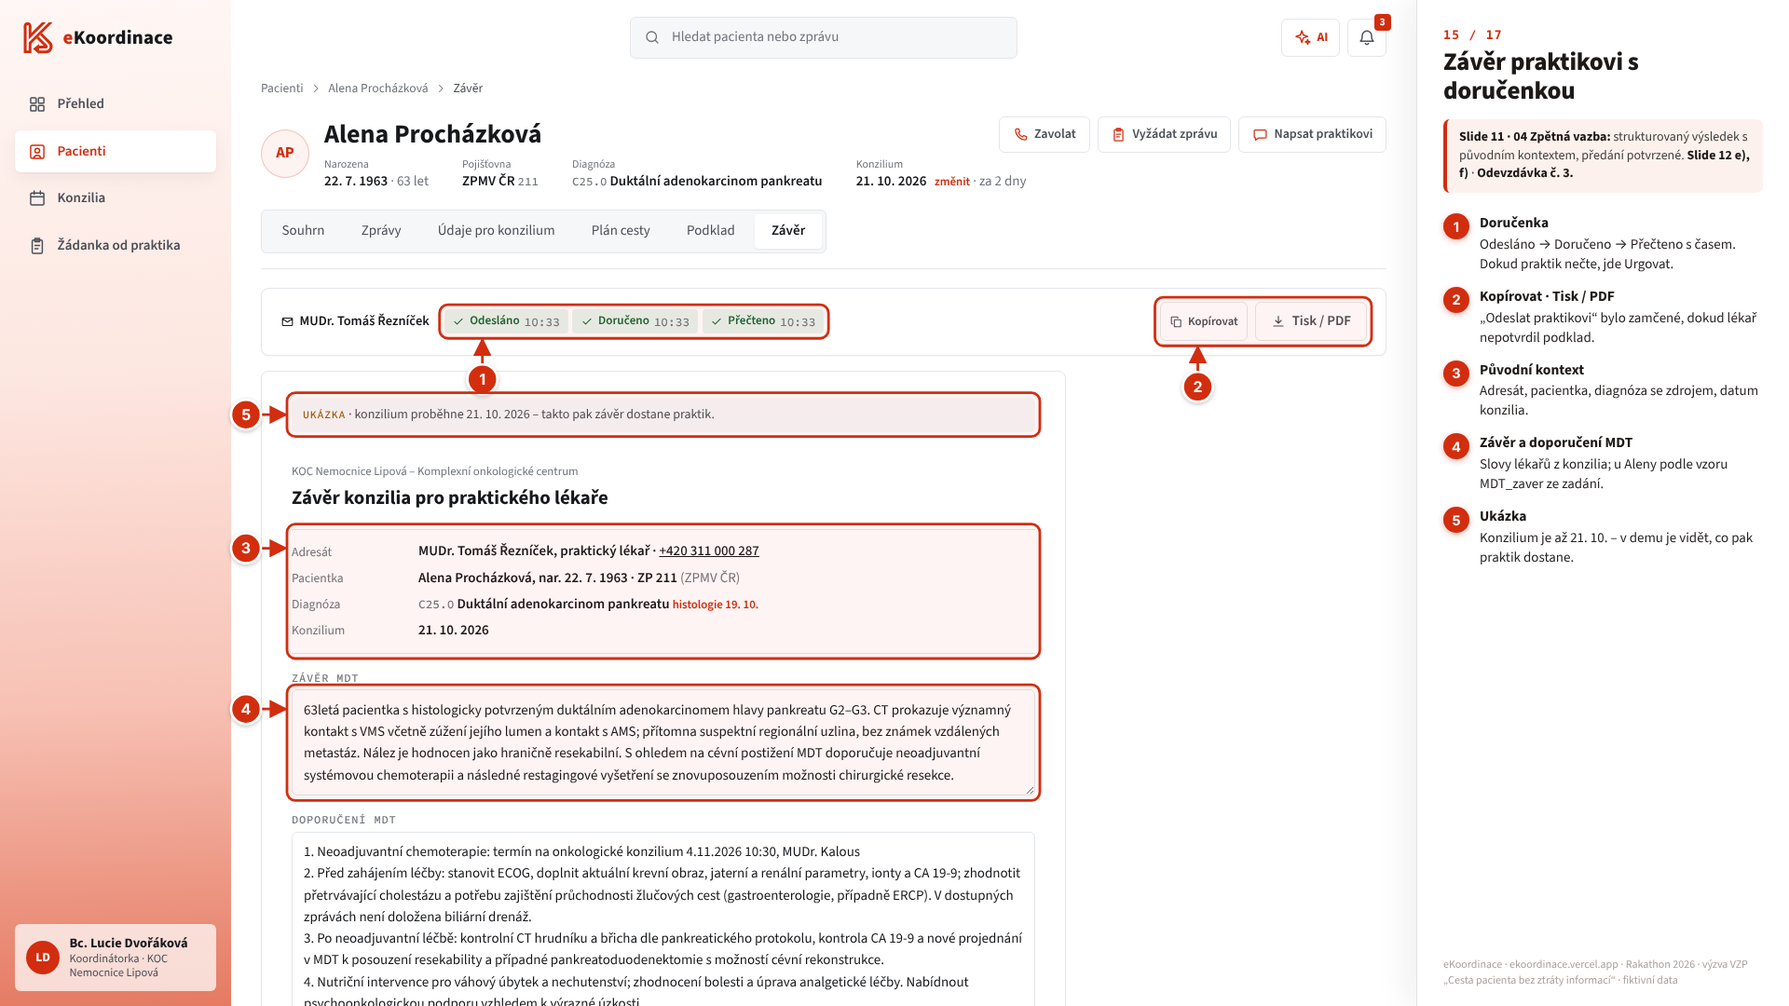
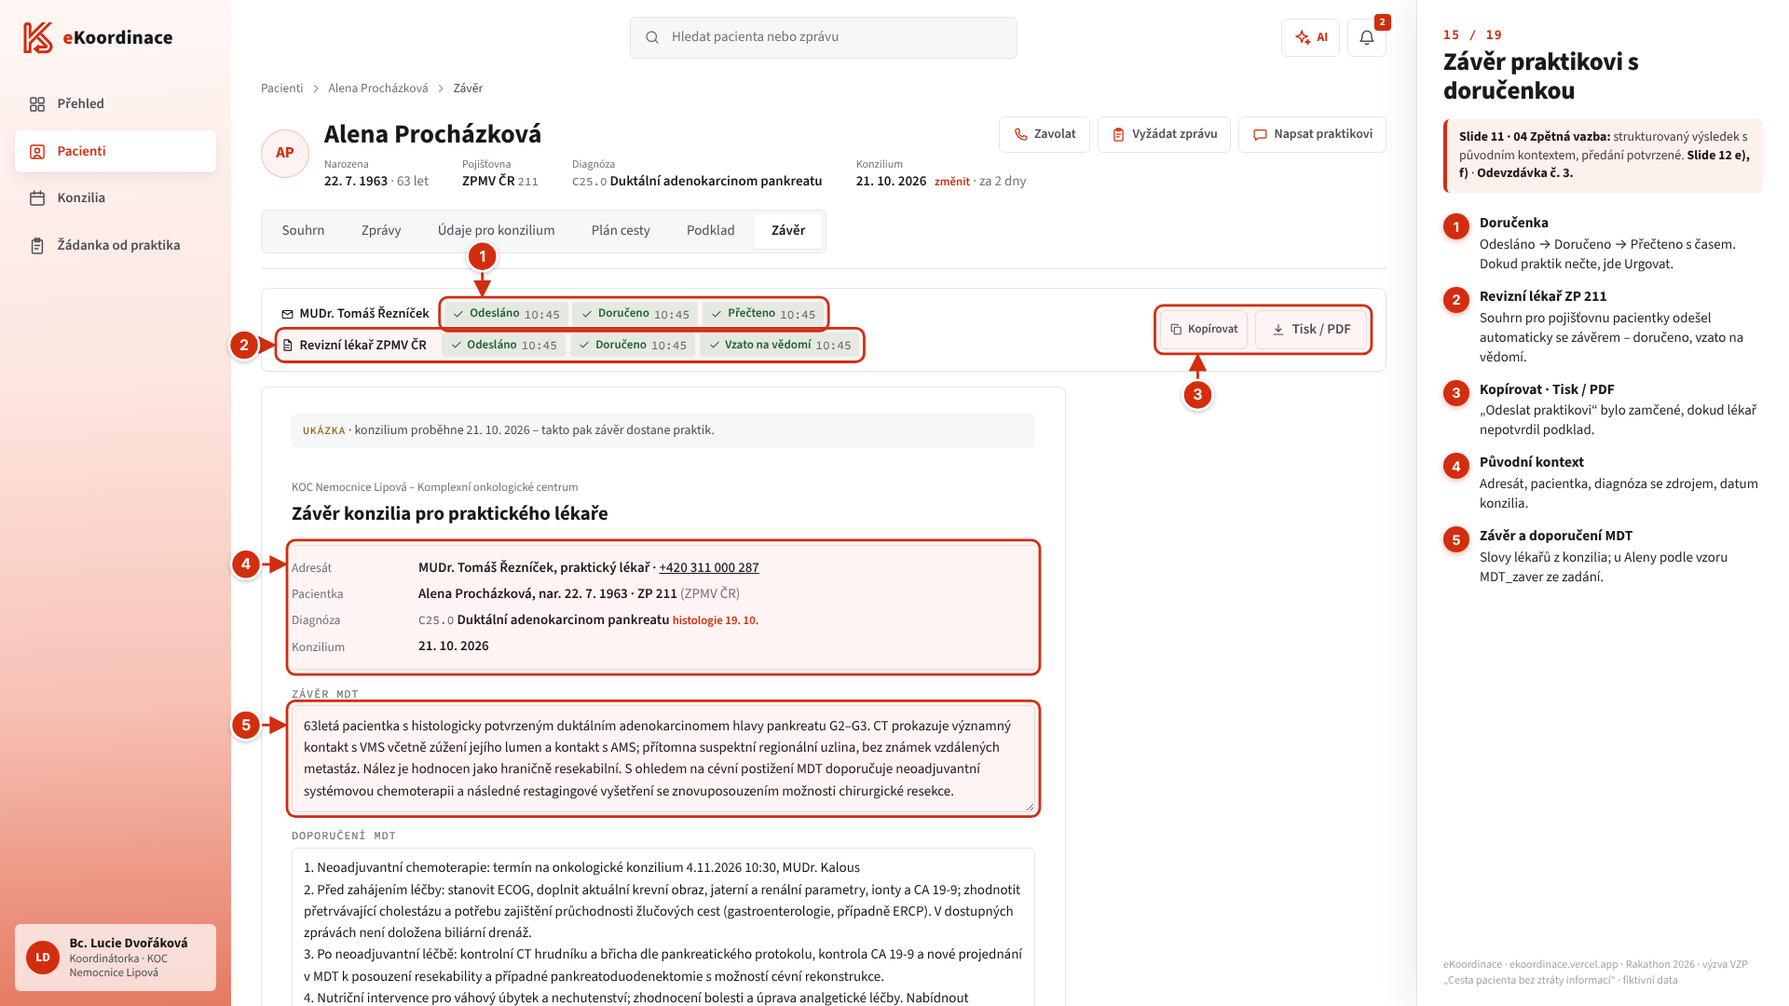
[matej] Prezentácia: revízny lekár – doručenka na snímke 15, nové snímky 18 (žiadosť o doplnenie) a 19 (súhrn)
Claude-Session: https://claude.ai/code/session_015VJSfYHmvM3mL2F35khGXF

Changed region(s): [[0.125, 0.2444, 0.5938, 1.0], [0.7812, 0.275, 0.9688, 0.5806], [0.625, 0.275, 0.7812, 0.4278]]

diff --git a/docs/odovzdanie/prezentace/index.html b/docs/odovzdanie/prezentace/index.html
@@ -63,7 +63,7 @@
 <header>
   <p class="num">Rakathon 2026 · výzva VZP „Cesta pacienta bez ztráty informací“</p>
   <h1>eKoordinace – obrazovky k prezentaci</h1>
-  <p class="lead">17 anotovaných snímků živé aplikace <a href="https://ekoordinace.vercel.app">ekoordinace.vercel.app</a> v pořadí, v jakém jde demo. Červená čísla na snímku odpovídají vysvětlivkám v pravém panelu; v panelu je i to, který slide zadání obrazovka splňuje. Pod každým snímkem je, co říct. Na konci je tabulka <a href="#pozadavky">požadavek ze zadání → kde to v aplikaci je</a> a <a href="#nemame">co nemáme</a>.</p>
+  <p class="lead">19 anotovaných snímků živé aplikace <a href="https://ekoordinace.vercel.app">ekoordinace.vercel.app</a> v pořadí, v jakém jde demo. Červená čísla na snímku odpovídají vysvětlivkám v pravém panelu; v panelu je i to, který slide zadání obrazovka splňuje. Pod každým snímkem je, co říct. Na konci je tabulka <a href="#pozadavky">požadavek ze zadání → kde to v aplikaci je</a> a <a href="#nemame">co nemáme</a>.</p>
 </header>
 
 <div class="box">
@@ -96,13 +96,15 @@
     <li><a href="#s15"><b>15</b>Závěr praktikovi s doručenkou</a></li>
     <li><a href="#s16"><b>16</b>Konzilia</a></li>
     <li><a href="#s17"><b>17</b>Zeptat se AI (Claude)</a></li>
+    <li><a href="#s18"><b>18</b>Revizní lékař si vyžádá doplnění</a></li>
+    <li><a href="#s19"><b>19</b>Souhrn pro revizního lékaře</a></li>
     <li><a href="#pozadavky"><b>✓</b>Požadavky → kde v aplikaci</a></li>
   </ol>
 </nav>
 
 <!-- 1 -->
 <section class="shot" id="s01">
-  <div class="shot-head"><span class="num">1 / 17</span><h2>Přehled – ráno koordinátorky</h2></div>
+  <div class="shot-head"><span class="num">1 / 19</span><h2>Přehled – ráno koordinátorky</h2></div>
   <div class="tags"><span class="tag">Slide 9 · 03 Koordinovat</span><span class="tag">Slide 12 c) d)</span><span class="tag gray">Slide 5 · uvnitř KOC</span></div>
   <figure><a href="01-prehled.png"><img src="01-prehled.png" alt="Přehled: Na tahu jste vy 3, Čeká na ostatní 1, nejbližší konzilium 21. 10. 2026; seznam úkolů s termíny." loading="lazy" width="1920" height="1080"></a></figure>
   <h3>Co říct</h3>
@@ -117,7 +119,7 @@
 
 <!-- 2 -->
 <section class="shot" id="s02">
-  <div class="shot-head"><span class="num">2 / 17</span><h2>Žádanka od praktika – bez formuláře</h2></div>
+  <div class="shot-head"><span class="num">2 / 19</span><h2>Žádanka od praktika – bez formuláře</h2></div>
   <div class="tags"><span class="tag">Slide 7 · 01 Převzít</span><span class="tag">Slide 12 a)</span><span class="tag gray">Slide 5 · na vstupu</span></div>
   <figure><a href="02-zadanka.png"><img src="02-zadanka.png" alt="Žádanka do KOC: tři kroky, výběr KOC, údaje vyplněné z dopisu, zprávy z ambulance a tlačítko Odeslat do KOC 2." loading="lazy" width="1920" height="1080"></a></figure>
   <h3>Co říct</h3>
@@ -132,7 +134,7 @@
 
 <!-- 3 -->
 <section class="shot" id="s03">
-  <div class="shot-head"><span class="num">3 / 17</span><h2>Nový pacient – zprávy v jakékoli podobě</h2></div>
+  <div class="shot-head"><span class="num">3 / 19</span><h2>Nový pacient – zprávy v jakékoli podobě</h2></div>
   <div class="tags"><span class="tag">Zadání · Vyžádat a shromáždit</span><span class="tag">Slide 7</span><span class="tag gray">Slide 5 · na vstupu</span></div>
   <figure><a href="03-novy-pacient-zpravy.png"><img src="03-novy-pacient-zpravy.png" alt="Zprávy pacienta (10): pole pro přetažení, seznam zpráv s datem, fotka přečtená OCR se značkou, PDF a RTF." loading="lazy" width="1920" height="1080"></a></figure>
   <h3>Co říct</h3>
@@ -147,7 +149,7 @@
 
 <!-- 4 -->
 <section class="shot" id="s04">
-  <div class="shot-head"><span class="num">4 / 17</span><h2>Pacienti a hledání</h2></div>
+  <div class="shot-head"><span class="num">4 / 19</span><h2>Pacienti a hledání</h2></div>
   <div class="tags"><span class="tag">Slide 9 · 03 Koordinovat</span><span class="tag">Slide 12 c)</span><span class="tag gray">Zadání · vše na jednom místě</span></div>
   <figure><a href="04-pacienti-hledani.png"><img src="04-pacienti-hledani.png" alt="Seznam pacientů se stavem a termínem; hledání „histologie“ najde zprávy tří pacientů." loading="lazy" width="1920" height="1080"></a></figure>
   <h3>Co říct</h3>
@@ -162,7 +164,7 @@
 
 <!-- 5 -->
 <section class="shot" id="s05">
-  <div class="shot-head"><span class="num">5 / 17</span><h2>Pacientka – Souhrn</h2></div>
+  <div class="shot-head"><span class="num">5 / 19</span><h2>Pacientka – Souhrn</h2></div>
   <div class="tags"><span class="tag">Slide 9–10 · 03 Koordinovat</span><span class="tag">Slide 12 d)</span></div>
   <figure><a href="05-souhrn.png"><img src="05-souhrn.png" alt="Karta Aleny Procházkové: hlavička, cesta pacientky v pěti krocích, úkol pro vás do 20. 10. a úkoly s kontakty." loading="lazy" width="1920" height="1080"></a></figure>
   <h3>Co říct</h3>
@@ -177,7 +179,7 @@
 
 <!-- 6 -->
 <section class="shot" id="s06">
-  <div class="shot-head"><span class="num">6 / 17</span><h2>Údaje pro konzilium (handover)</h2></div>
+  <div class="shot-head"><span class="num">6 / 19</span><h2>Údaje pro konzilium (handover)</h2></div>
   <div class="tags"><span class="tag">Slide 8 · 02 Vytěžit</span><span class="tag">Slide 12 b)</span><span class="tag gray">Zadání · Vytěžit</span></div>
   <figure><a href="06-udaje.png"><img src="06-udaje.png" alt="Údaje pro konzilium: filtr Vše 20, Hotovo 16, Chybí 2, Rozpor 2; rozpor u léků s doslovnými větami a tlačítky Zapsat ověření, Napsat dotaz, Ponechat." loading="lazy" width="1920" height="1080"></a></figure>
   <h3>Co říct</h3>
@@ -193,7 +195,7 @@
 
 <!-- 7 -->
 <section class="shot" id="s07">
-  <div class="shot-head"><span class="num">7 / 17</span><h2>Každý údaj má zdroj</h2></div>
+  <div class="shot-head"><span class="num">7 / 19</span><h2>Každý údaj má zdroj</h2></div>
   <div class="tags"><span class="tag">Zadání · bez domýšlení</span><span class="tag">Slide 8</span></div>
   <figure><a href="07-citace.png"><img src="07-citace.png" alt="Otevřený bioptický nález se zvýrazněnou větou závěru a zvýrazněným datem vydání 19. 10. 2026." loading="lazy" width="1920" height="1080"></a></figure>
   <h3>Co říct</h3>
@@ -208,7 +210,7 @@
 
 <!-- 8 -->
 <section class="shot" id="s08">
-  <div class="shot-head"><span class="num">8 / 17</span><h2>Vyžádat doplnění od lékaře</h2></div>
+  <div class="shot-head"><span class="num">8 / 19</span><h2>Vyžádat doplnění od lékaře</h2></div>
   <div class="tags"><span class="tag">Slide 8 · 02 Vytěžit</span><span class="tag gray">Zadání · Vyžádat a shromáždit</span></div>
   <figure><a href="08-vyzadat.png"><img src="08-vyzadat.png" alt="Dialog Vyžádat doplnění: týká se ECOG, komu praktik, jak zabezpečená zpráva, předvyplněný text a tlačítko Odeslat." loading="lazy" width="1920" height="1080"></a></figure>
   <h3>Co říct</h3>
@@ -223,7 +225,7 @@
 
 <!-- 9 -->
 <section class="shot" id="s09">
-  <div class="shot-head"><span class="num">9 / 17</span><h2>Zprávy – vše na jednom místě</h2></div>
+  <div class="shot-head"><span class="num">9 / 19</span><h2>Zprávy – vše na jednom místě</h2></div>
   <div class="tags"><span class="tag">Zadání · Vyžádat a shromáždit</span><span class="tag">Upozornění zadavatele · po MDT</span><span class="tag gray">Slide 9 · kontext z referování</span></div>
   <figure><a href="09-zpravy.png"><img src="09-zpravy.png" alt="Záložka Zprávy: 11 zpráv do konzilia, filtr podle typu, souhrn bioptického nálezu a zvlášť dvě zprávy po konziliu." loading="lazy" width="1920" height="1080"></a></figure>
   <h3>Co říct</h3>
@@ -237,7 +239,7 @@
 
 <!-- 10 -->
 <section class="shot" id="s10">
-  <div class="shot-head"><span class="num">10 / 17</span><h2>Plán cesty – pořadí a stav</h2></div>
+  <div class="shot-head"><span class="num">10 / 19</span><h2>Plán cesty – pořadí a stav</h2></div>
   <div class="tags"><span class="tag">Slide 10 · 03 Koordinovat</span><span class="tag">Slide 9</span><span class="tag">Slide 12 d)</span><span class="tag gray">Zadání · Koordinovat</span></div>
   <figure><a href="10-plan.png"><img src="10-plan.png" alt="Plán cesty: kde případ je, na tahu Vy do 20. 10., hlídání termínů 1 zpoždění, sada kroků pro karcinom slinivky, pořadí kroků a krok CT." loading="lazy" width="1920" height="1080"></a></figure>
   <h3>Co říct</h3>
@@ -252,7 +254,7 @@
 
 <!-- 11 -->
 <section class="shot" id="s11">
-  <div class="shot-head"><span class="num">11 / 17</span><h2>Plán cesty – návaznost, SMS a e-mail</h2></div>
+  <div class="shot-head"><span class="num">11 / 19</span><h2>Plán cesty – návaznost, SMS a e-mail</h2></div>
   <div class="tags"><span class="tag">Slide 10 · 03 Koordinovat</span><span class="tag">Slide 12 d)</span><span class="tag gray">Zadání · algeziolog, psycholog</span></div>
   <figure><a href="11-plan-navaznost.png"><img src="11-plan-navaznost.png" alt="Druhá část plánu: podklad, konzilium, závěr praktikovi, algeziologie v KOC Nemocnice Severní se stavem a tlačítky SMS pacientce a E-mail pracovišti, záznam koordinace." loading="lazy" width="1920" height="1080"></a></figure>
   <h3>Co říct</h3>
@@ -267,7 +269,7 @@
 
 <!-- 12 -->
 <section class="shot" id="s12">
-  <div class="shot-head"><span class="num">12 / 17</span><h2>Podklad pro konzilium – zamčeno</h2></div>
+  <div class="shot-head"><span class="num">12 / 19</span><h2>Podklad pro konzilium – zamčeno</h2></div>
   <div class="tags"><span class="tag">Slide 8 · lékař potvrdí</span><span class="tag">Odevzdávka č. 2</span></div>
   <figure><a href="12-podklad-zamceno.png"><img src="12-podklad-zamceno.png" alt="Podklad: Nejdřív vyřešte 4 body s tlačítky Vyřešit a Ponechat, zamčené tlačítko Potvrdit a vygenerovat PDF a zápis k jednání MDT jako návrh." loading="lazy" width="1920" height="1080"></a></figure>
   <h3>Co říct</h3>
@@ -282,7 +284,7 @@
 
 <!-- 13 -->
 <section class="shot" id="s13">
-  <div class="shot-head"><span class="num">13 / 17</span><h2>Podklad potvrzen → PDF</h2></div>
+  <div class="shot-head"><span class="num">13 / 19</span><h2>Podklad potvrzen → PDF</h2></div>
   <div class="tags"><span class="tag">Slide 8 · Hotovo, když</span><span class="tag">Slide 12 e)</span><span class="tag">Odevzdávka č. 2</span></div>
   <figure><a href="13-podklad-pdf.png"><img src="13-podklad-pdf.png" alt="Potvrzený podklad: soubor PDF, tlačítka Stáhnout PDF a Kopírovat do NIS, zdroj u údajů a příznak doplněno u ECOG." loading="lazy" width="1920" height="1080"></a></figure>
   <h3>Co říct</h3>
@@ -297,7 +299,7 @@
 
 <!-- 14 -->
 <section class="shot" id="s14">
-  <div class="shot-head"><span class="num">14 / 17</span><h2>Na konziliu: části 6 a 7</h2></div>
+  <div class="shot-head"><span class="num">14 / 19</span><h2>Na konziliu: části 6 a 7</h2></div>
   <div class="tags"><span class="tag">Odevzdávka č. 2</span><span class="tag">Slide 12 e)</span><span class="tag gray">Zadání · jen data k 21. 10.</span></div>
   <figure><a href="14-podklad-mdt.png"><img src="14-podklad-mdt.png" alt="Konec podkladu: výsledky vyšetření končí histologií 19. 10., pod nimi pole Závěr MDT a Doporučení MDT." loading="lazy" width="1920" height="1080"></a></figure>
   <h3>Co říct</h3>
@@ -311,13 +313,14 @@
 
 <!-- 15 -->
 <section class="shot" id="s15">
-  <div class="shot-head"><span class="num">15 / 17</span><h2>Závěr praktikovi s doručenkou</h2></div>
+  <div class="shot-head"><span class="num">15 / 19</span><h2>Závěr praktikovi s doručenkou</h2></div>
   <div class="tags"><span class="tag">Slide 11 · 04 Zpětná vazba</span><span class="tag">Slide 12 e) f)</span><span class="tag">Odevzdávka č. 3</span><span class="tag gray">Slide 5 · na výstupu</span></div>
-  <figure><a href="15-zaver.png"><img src="15-zaver.png" alt="Závěr konzilia pro praktického lékaře s doručenkou Odesláno, Doručeno, Přečteno a s adresátem, pacientkou, diagnózou a závěrem MDT." loading="lazy" width="1920" height="1080"></a></figure>
+  <figure><a href="15-zaver.png"><img src="15-zaver.png" alt="Závěr konzilia pro praktického lékaře s doručenkou Odesláno, Doručeno, Přečteno, pod ní doručenka revizního lékaře ZPMV ČR až po Vzato na vědomí, a s adresátem, pacientkou, diagnózou a závěrem MDT." loading="lazy" width="1920" height="1080"></a></figure>
   <h3>Co říct</h3>
   <ul class="say">
     <li>Závěr konzilia pro praktika: adresát, pacientka, diagnóza se zdrojem a datum konzilia, pak závěr, doporučení a další postup slovy lékařů (u Aleny podle vzoru MDT_zaver ze zadání).</li>
     <li>„Odeslat praktikovi“ jde až po potvrzení podkladu. Pak doručenka: Odesláno → Doručeno → Přečteno s časem; dokud praktik nečte, jde „Urgovat“.</li>
+    <li>Druhý řádek: se závěrem odešel automaticky i souhrn reviznímu lékaři pojišťovny pacientky – Alena má ZPMV ČR (211), ne VZP. Odesláno → Doručeno → Vzato na vědomí, bez dalšího klikání.</li>
     <li>Po doručení se krok „Závěr praktikovi“ v cestě pacientky uzavře – smyčka je zavřená.</li>
     <li>„Ukázka“: konzilium je až 21. 10. – v demu je vidět, co pak praktik dostane.</li>
   </ul>
@@ -326,7 +329,7 @@
 
 <!-- 16 -->
 <section class="shot" id="s16">
-  <div class="shot-head"><span class="num">16 / 17</span><h2>Konzilia – program a připravenost</h2></div>
+  <div class="shot-head"><span class="num">16 / 19</span><h2>Konzilia – program a připravenost</h2></div>
   <div class="tags"><span class="tag">Slide 9 · 03 Koordinovat</span><span class="tag">Slide 12 c) e)</span></div>
   <figure><a href="16-konzilia.png"><img src="16-konzilia.png" alt="Konzilia 21. a 22. 10. 2026: u Aleny Potvrzeno – PDF, u dalších pacientů body k vyřešení, tlačítko Program konzilia." loading="lazy" width="1920" height="1080"></a></figure>
   <h3>Co říct</h3>
@@ -340,7 +343,7 @@
 
 <!-- 17 -->
 <section class="shot" id="s17">
-  <div class="shot-head"><span class="num">17 / 17</span><h2>Zeptat se AI (Claude)</h2></div>
+  <div class="shot-head"><span class="num">17 / 19</span><h2>Zeptat se AI (Claude)</h2></div>
   <div class="tags"><span class="tag">Kritérium · AI technologie a provedení</span><span class="tag gray">Slide 9 · přehled</span></div>
   <figure><a href="17-ai.png"><img src="17-ai.png" alt="Panel Zeptat se AI s otázkou Co mám dnes udělat jako první a odpovědí se jmény pacientů a zdroji." loading="lazy" width="1920" height="1080"></a></figure>
   <h3>Co říct</h3>
@@ -351,6 +354,36 @@
     <li>Odpověď se při každém dotazu generuje znovu – na živém demu bude znít jinak než na snímku.</li>
   </ul>
   <p class="meets"><b>Splňuje:</b> hodnoticí kritérium „AI technologie a provedení“; slide 9 – přehled, co je na tahu.</p>
+</section>
+
+<!-- 18 -->
+<section class="shot" id="s18">
+  <div class="shot-head"><span class="num">18 / 19</span><h2>Revizní lékař si vyžádá doplnění</h2></div>
+  <div class="tags"><span class="tag">Slide 11 · 04 Zpětná vazba</span><span class="tag">Body 24–25</span></div>
+  <figure><a href="18-revizni-dotaz.png"><img src="18-revizni-dotaz.png" alt="Záložka Závěr: doručenka revizního lékaře ZPMV ČR se stavem Žádá doplnění, pod ní jeho dotaz na výkonnostní stav (ECOG) s polem pro odpověď a zvonek s úkolem." loading="lazy" width="1920" height="1080"></a></figure>
+  <h3>Co říct</h3>
+  <ul class="say">
+    <li>Tady koordinátorka před konziliem nechala ECOG „Ponechat bez ověření – nestihne se do konzilia“. Souhrn odešel revizní lékařce sám se závěrem a ta se ptá: pro posouzení úhrady léčby ECOG potřebuje.</li>
+    <li>Dotaz se objeví jako úkol „Odpovědět reviznímu lékaři“ v Přehledu i ve zvonku a krok cesty „Závěr praktikovi“ se do odpovědi neuzavře.</li>
+    <li>Koordinátorka napíše, co zjistila a odkud; odpověď jde zpět stejným vláknem, pak „Odpovězeno“ → „Vzato na vědomí“ a vše je v záznamu koordinace.</li>
+    <li>Ptá se jen na to, co pojišťovna k úhradě potřebuje (diagnóza, histologie, ECOG) a co zůstalo neověřené – když je všechno ověřené, jen vezme na vědomí (snímek 15).</li>
+  </ul>
+  <p class="meets"><b>Splňuje:</b> slide 11, body 24 a 25 – revizní lékař dostane informaci automaticky a může si od koordinátora vyžádat doplnění. Kanál k pojišťovně je v prototypu simulovaný.</p>
+</section>
+
+<!-- 19 -->
+<section class="shot" id="s19">
+  <div class="shot-head"><span class="num">19 / 19</span><h2>Souhrn pro revizního lékaře</h2></div>
+  <div class="tags"><span class="tag">Slide 11 · 04 Zpětná vazba</span><span class="tag">Bod 24</span></div>
+  <figure><a href="19-revizni-souhrn.png"><img src="19-revizni-souhrn.png" alt="Souhrn pro revizního lékaře: adresát Zdravotní pojišťovna ministerstva vnitra ČR (211), pojištěnka, diagnóza, histologie, výkonnostní stav bez ověření, konzilium, rozhodnutí konzilia, plánovaná léčba a kontakt." loading="lazy" width="1920" height="1080"></a></figure>
+  <h3>Co říct</h3>
+  <ul class="say">
+    <li>Souhrn je pod závěrem pro praktika a odejde automaticky s ním – koordinátorka nic dalšího neposílá; jde i zkopírovat.</li>
+    <li>Adresát podle pojišťovny ve zprávách: Alena má ZPMV ČR (211), takže souhrn jde jejímu reviznímu lékaři, ne automaticky VZP.</li>
+    <li>Pevná struktura: pojištěnka, diagnóza, histologie, výkonnostní stav, konzilium, rozhodnutí konzilia a plánovaná léčba slovy MDT, kontakt na koordinátorku.</li>
+    <li>Co zůstalo neověřené, je tak i označené („bez ověření – nestihne se do konzilia“) – proto se revizní lékař na ECOG zeptal (snímek 18).</li>
+  </ul>
+  <p class="meets"><b>Splňuje:</b> slide 11, bod 24 – informace pro revizního lékaře roztříděná do struktury. Kanál k pojišťovně je v prototypu simulovaný (reálně B2B portál pojišťovny nebo FHIR).</p>
 </section>
 
 <!-- requirements -->
@@ -394,8 +427,8 @@
 
       <tr class="group"><td colspan="3">Slide 11 – 04 Zpětná vazba</td></tr>
       <tr><td>Strukturovaný výsledek s původním kontextem praktikovi</td><td>Závěr pro praktika: adresát, pacientka, diagnóza se zdrojem, konzilium, závěr a doporučení MDT</td><td class="where"><a href="#s15">15</a></td></tr>
-      <tr><td>Revizní lékař automaticky</td><td>Souhrn pro revizního lékaře pojišťovny pacientky (u Aleny ZPMV ČR 211, ne automaticky VZP) odejde se závěrem: diagnóza, histologie, ECOG, rozhodnutí a plánovaná léčba; doručenka a „vzato na vědomí“ (simulované)</td><td class="where"><a href="#s15">15</a></td></tr>
-      <tr><td>Revizní lékař si vyžádá doplnění</td><td>„Žádá doplnění“ → úkol „Odpovědět reviznímu lékaři“ v Přehledu a ve zvonku → odpověď → „vzato na vědomí“</td><td class="where"><a href="#s15">15</a></td></tr>
+      <tr><td>Revizní lékař automaticky</td><td>Souhrn pro revizního lékaře pojišťovny pacientky (u Aleny ZPMV ČR 211, ne automaticky VZP) odejde se závěrem: diagnóza, histologie, ECOG, rozhodnutí a plánovaná léčba; doručenka a „vzato na vědomí“ (simulované)</td><td class="where"><a href="#s15">15</a>, <a href="#s19">19</a></td></tr>
+      <tr><td>Revizní lékař si vyžádá doplnění</td><td>„Žádá doplnění“ → úkol „Odpovědět reviznímu lékaři“ v Přehledu a ve zvonku → odpověď → „vzato na vědomí“</td><td class="where"><a href="#s18">18</a></td></tr>
       <tr><td>Potvrdit předání a uzavřít případ</td><td>Doručenka Odesláno → Doručeno → Přečteno, Urgovat; krok cesty se uzavře</td><td class="where"><a href="#s15">15</a></td></tr>
 
       <tr class="group"><td colspan="3">Slide 12 – demo musí ukázat</td></tr>
@@ -439,7 +472,7 @@
 </section>
 
 <footer>
-  <p><b>Jak snímky vznikly:</b> živá aplikace 17. 10. 2026, Chromium přes Playwright, okno 1920 × 1080 (aplikace v levých 1520 px, vpravo panel s vysvětlivkami). Před snímky se demo vrátilo do výchozího stavu. Předem nastaveno přes úložiště prohlížeče (jako by to koordinátorka naklikala): SMS pacientce v 8:55 (snímky 1–12) a od snímku 13 stav po práci koordinátorky – 4 body vyřešené a podklad potvrzený MUDr. Lenkou Markovou. David Sipos (snímky 3–4) byl založen a jeho zprávy nahrány přes rozhraní. Časy v doručence jsou skutečný čas pořízení snímku. Generátor: <code>screenshoty.cjs</code> v této složce.</p>
+  <p><b>Jak snímky vznikly:</b> živá aplikace 17. 10. 2026, Chromium přes Playwright, okno 1920 × 1080 (aplikace v levých 1520 px, vpravo panel s vysvětlivkami). Před snímky se demo vrátilo do výchozího stavu. Předem nastaveno přes úložiště prohlížeče (jako by to koordinátorka naklikala): SMS pacientce v 8:55 (snímky 1–12) a od snímku 13 stav po práci koordinátorky – 4 body vyřešené a podklad potvrzený MUDr. Lenkou Markovou; pro snímky 18–19 stejný stav, jen ECOG ponechaný bez ověření. David Sipos (snímky 3–4) byl založen a jeho zprávy nahrány přes rozhraní. Časy v doručence jsou skutečný čas pořízení snímku. Generátor: <code>screenshoty.cjs</code> v této složce.</p>
 </footer>
 
 </main>
